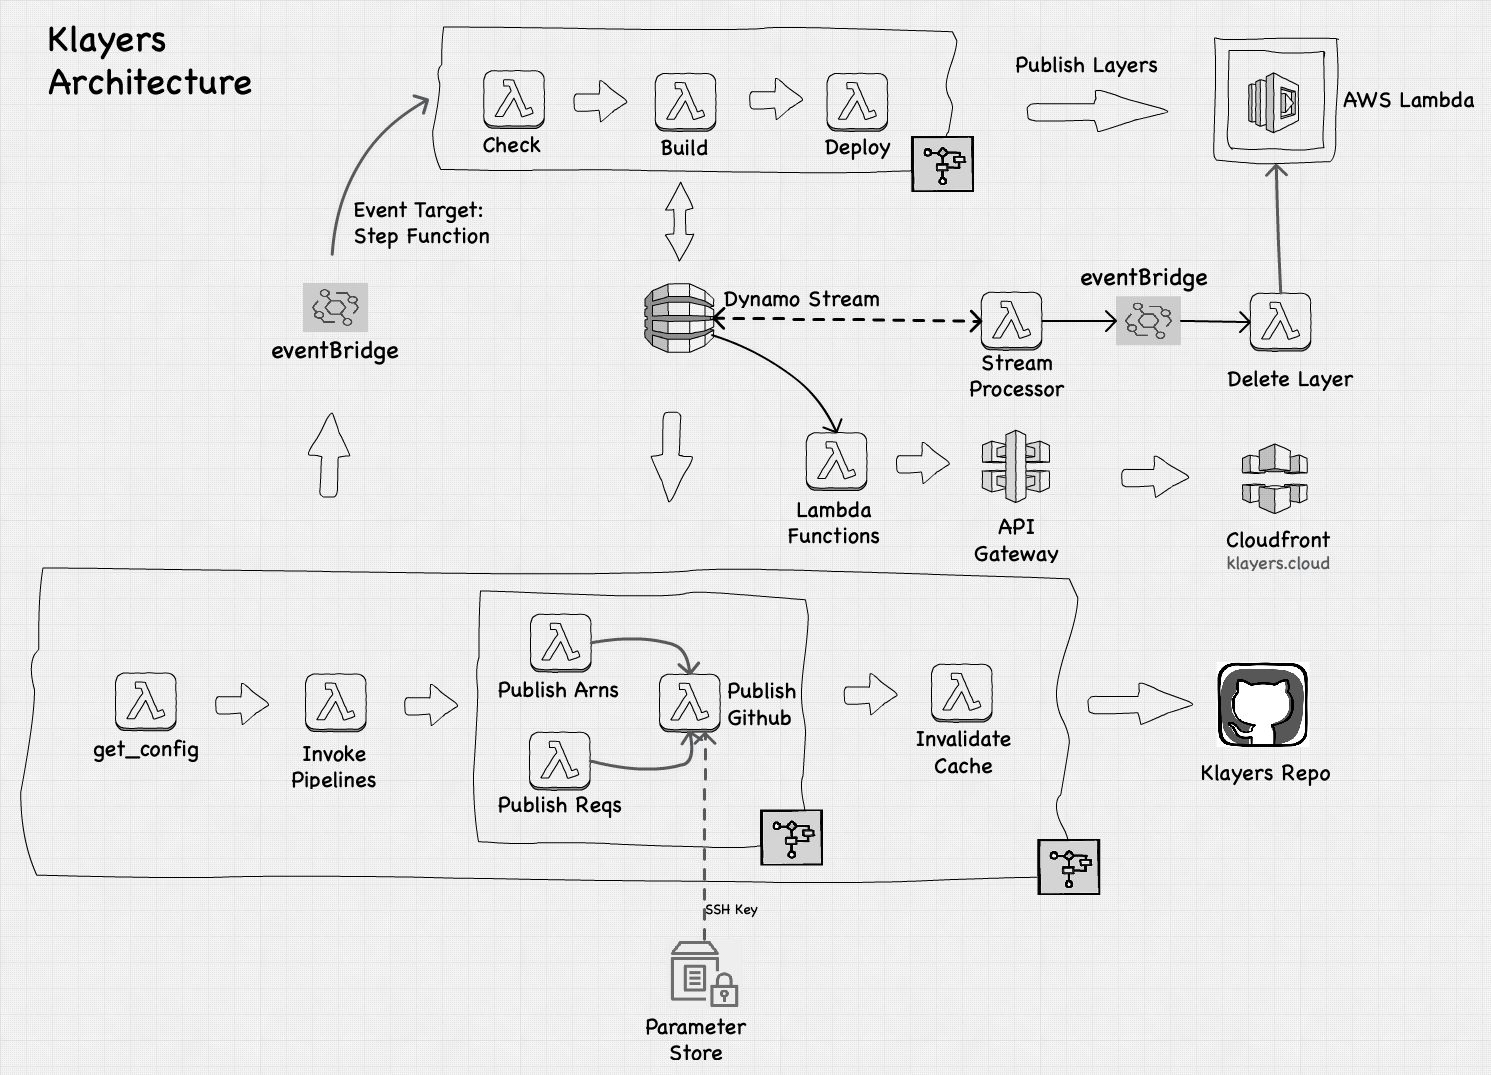
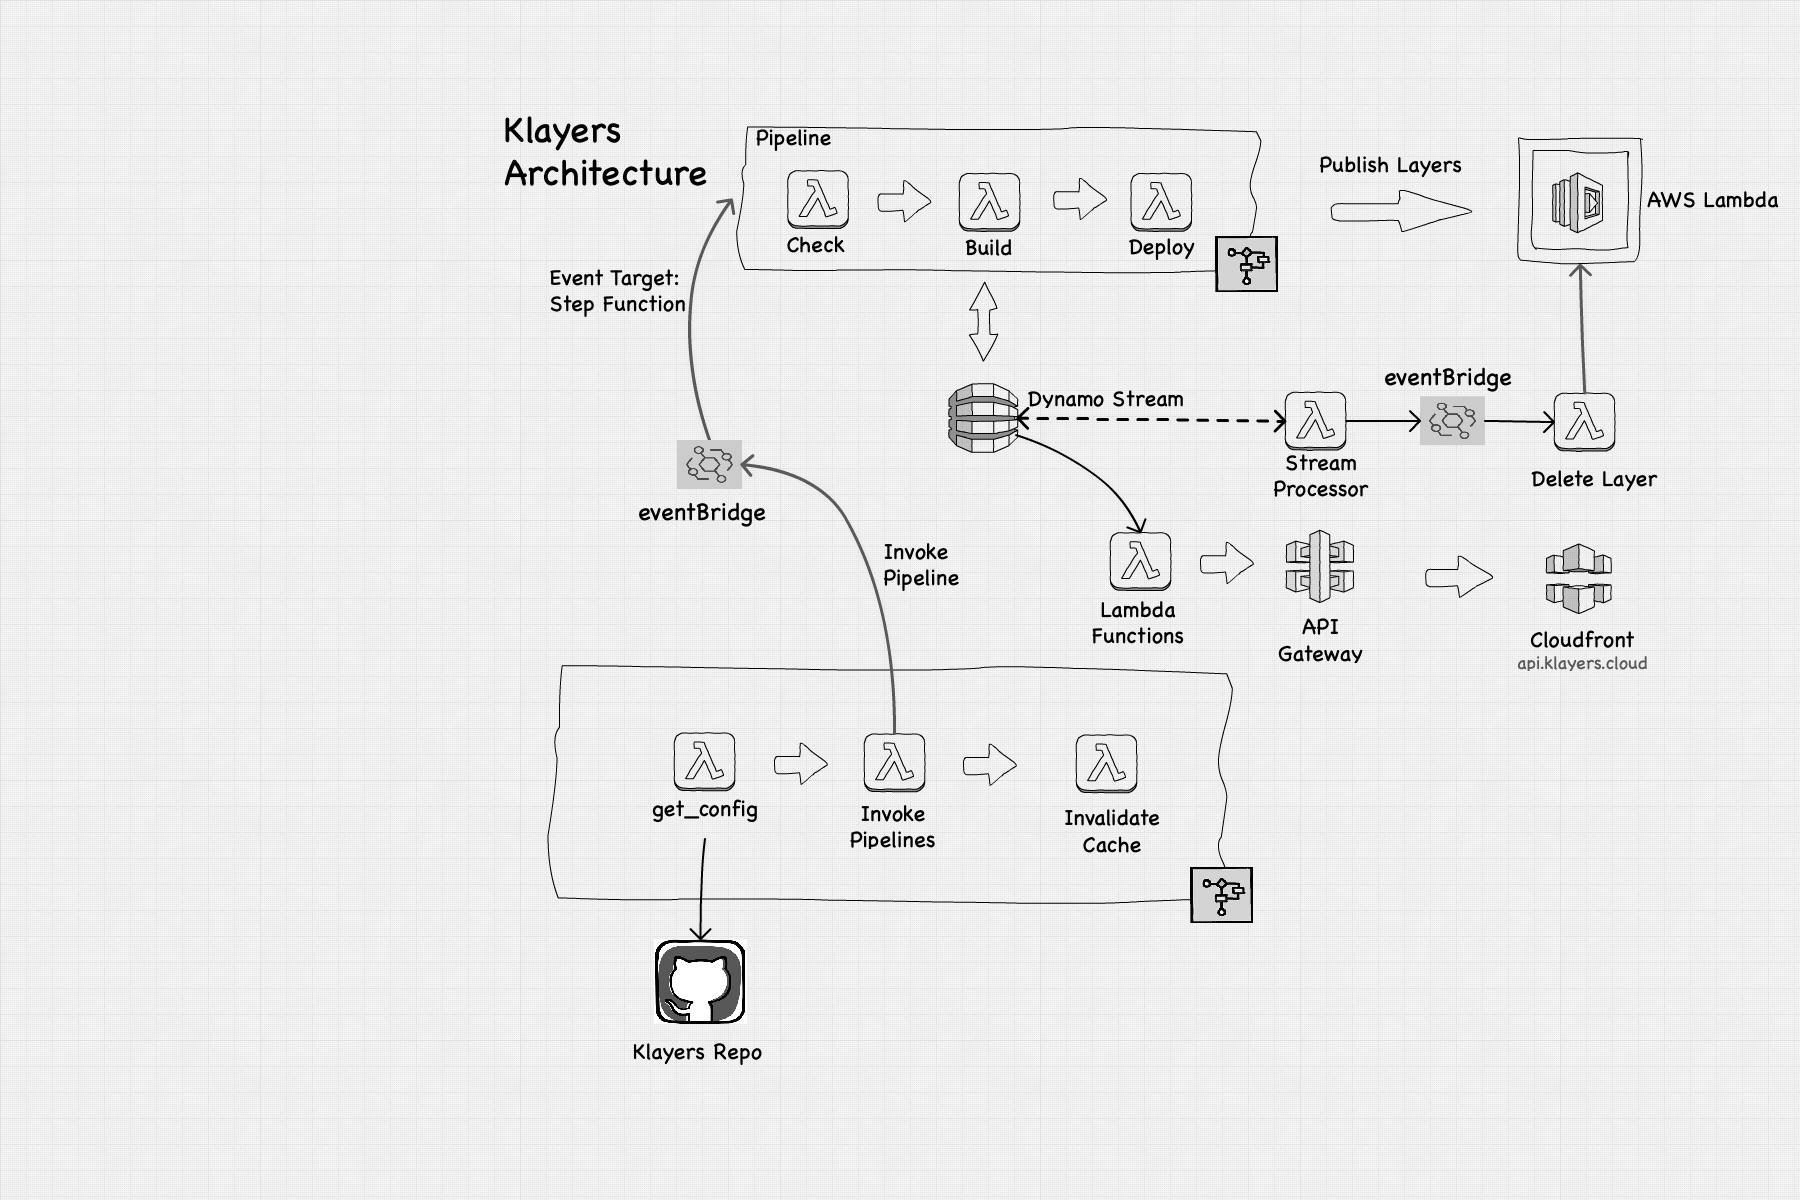
updated for python3.9

diff --git a/README.MD b/README.MD
@@ -6,18 +6,23 @@
 
 ## Layer List
 
-List of all layer version arns are available by region [here](deployments/python3.8/arns)
+List of the latest layer version arns are available by region [here](deployments/python3.8/arns) for python3.8 and [here](deployments/python3.9/arns) for python3.9.
 
-There might be multiple versions for a single package, as we publish a new layer version if the package dependencies (`requirements.txt`) has been updated. Refer to [Layer expiry](#Layer-expiry) for more data.
+We publish a new layer version if the package dependencies (`requirements.txt`) has been updated. Refer to [Layer expiry](#Layer-expiry) for more data.
 
 *Note: We have deprecated layers for python3.6 and python 3.7, please use these newer versions that are built for python 3.8 and python 3.9 going forward.*
 
 ## Python Packages
 
-For the full list of Python packages, refer to the following:
+For the full list of Python packages, refer to the following, feel free to make a pull requests modifying the files below to requests for newer python versions.
 
-* [Python 3.8](deployments/python3.8)
-* [Python 3.9](deployments/python3.9)
+* [Python 3.8](pipeline/config/packages_p38.csv)
+* [Python 3.9](pipeline/config/packages_p39.csv)
+
+For the full list of arns (that you can use immediately), refer to the following:
+
+* [Python 3.8](deployments/python3.8/arns)
+* [Python 3.9](deployments/python3.9/arns)
 
 ## Using the Layers
 
@@ -88,7 +93,7 @@ We've recently added an API under beta. All API calls are http-based, and work o
 
 ### Get latest ARN for specific package in region
 
-Returns data on the latest layer for a specific *{package}* in a specific *{region}* for your *{python_version}*
+Returns data on the latest layer for a all packages in a specific *{region}* for your *{python_version}*
 
 *https://api.klayers.cloud/api/v2/{python_version}/layers/latest/{region}/*
 
@@ -99,7 +104,7 @@ example:
 
 ### Get all ARNs for specific package in region
 
-Returns data on the all layers (latest and deprecated) for a specific *{package}* in a specific *{region}* for your *{python_version}*
+Returns data on the all layers (latest and deprecated) for a **specific** *{package}* in a specific *{region}* for your *{python_version}*
 
 *https://api.klayers.cloud/api/v2/{python_version}/layers/{region}/{package}*
 
@@ -115,4 +120,4 @@ example:
 
 ## Asking for additional layers
 
-If you would like a new package to be made a layer, raise a `pull request` modifying the `pipeline/config/packages_p39.csv` file.
+If you would like a new package to be made a layer, raise a `pull request` modifying the `pipeline/config/packages_p39.csv` or `pipeline/config/packages_p38.csv` file (depending on which version of python you use). By default, please request for the latest version of python unless you absolutely need an older version.